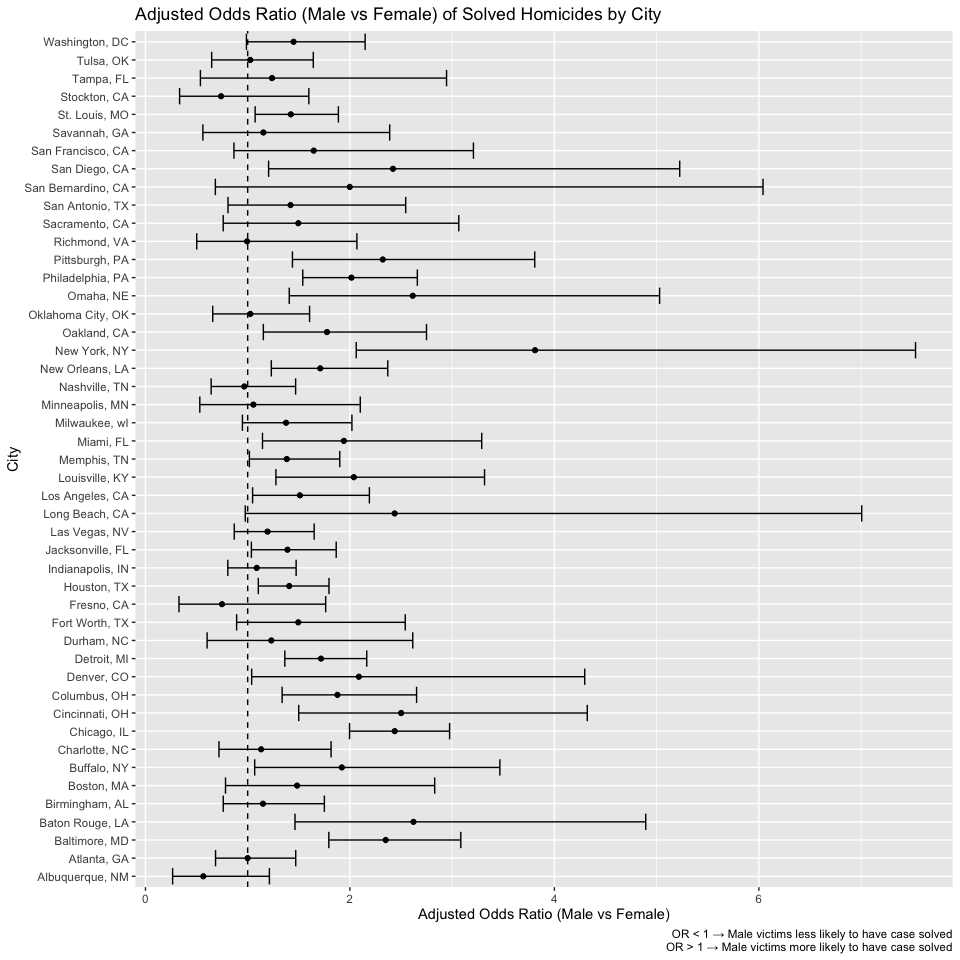
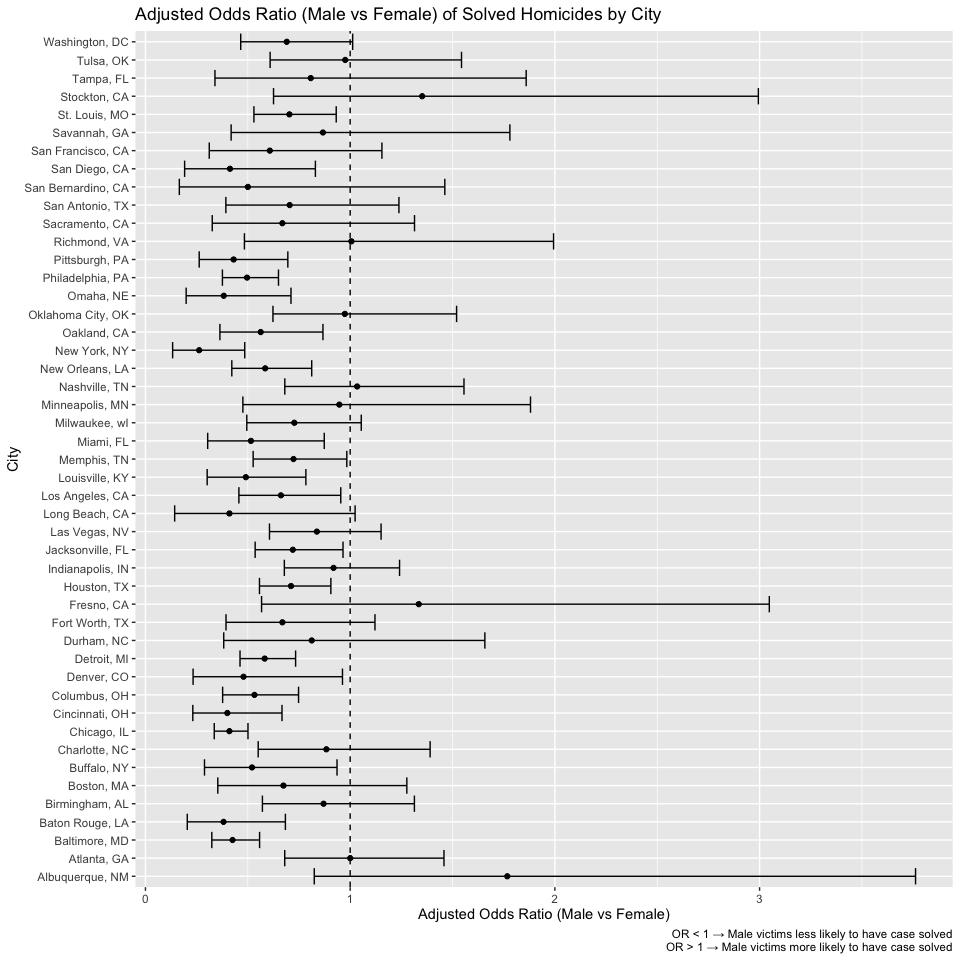
final changes. Completed homework.

diff --git a/hw6_ss7636.md b/hw6_ss7636.md
@@ -39,7 +39,7 @@
       mutate(
         unsolved = disposition %in% c("Closed without arrest", "Open/No arrest")
       ) |> 
-      mutate(unsolved_bin = ifelse(unsolved == TRUE, 1, 0)) |> 
+      mutate(solved_bin = ifelse(unsolved == TRUE, 0, 1)) |> 
       filter(!(city_state %in% c("Dallas, TX",
                                  "Phoenix, AZ",
                                  "Kansas City, MO",
@@ -68,14 +68,14 @@
     ##  9 Alb-0000…      20100423 KING        TEVION       Black               15 Male       Albu… NM     35.1 -107.
     ## 10 Alb-0000…      20100423 BOYKIN      CEDRIC       Black               25 Male       Albu… NM     35.1 -107.
     ## # ℹ 39,683 more rows
-    ## # ℹ 4 more variables: disposition <chr>, city_state <chr>, unsolved <lgl>, unsolved_bin <dbl>
+    ## # ℹ 4 more variables: disposition <chr>, city_state <chr>, unsolved <lgl>, solved_bin <dbl>
 
     baltimore = homicide_city_state |> 
       filter(city_state == "Baltimore, MD")
 
 
     fit = glm(
-      unsolved_bin ~ victim_age + victim_sex + victim_race, data = baltimore,  family = binomial(link = "logit")
+      solved_bin ~ victim_age + victim_sex + victim_race, data = baltimore,  family = binomial(link = "logit")
     )
     tidy_fit = broom::tidy(fit, conf.int = TRUE, exponentiate = TRUE)
 
@@ -84,10 +84,10 @@
     ## # A tibble: 4 × 7
     ##   term             estimate std.error statistic  p.value conf.low conf.high
     ##   <chr>               <dbl>     <dbl>     <dbl>    <dbl>    <dbl>     <dbl>
-    ## 1 (Intercept)         0.733   0.171       -1.81 7.04e- 2    0.523     1.02 
-    ## 2 victim_age          1.01    0.00332      2.02 4.30e- 2    1.00      1.01 
-    ## 3 victim_sexMale      2.35    0.138        6.18 6.26e-10    1.79      3.08 
-    ## 4 victim_raceWhite    0.431   0.175       -4.82 1.45e- 6    0.305     0.606
+    ## 1 (Intercept)         1.36    0.171        1.81 7.04e- 2    0.976     1.91 
+    ## 2 victim_age          0.993   0.00332     -2.02 4.30e- 2    0.987     1.000
+    ## 3 victim_sexMale      0.426   0.138       -6.18 6.26e-10    0.324     0.558
+    ## 4 victim_raceWhite    2.32    0.175        4.82 1.45e- 6    1.65      3.28
 
     tidy_fit |> 
       filter(term == "victim_sexMale")
@@ -95,14 +95,18 @@
     ## # A tibble: 1 × 7
     ##   term           estimate std.error statistic  p.value conf.low conf.high
     ##   <chr>             <dbl>     <dbl>     <dbl>    <dbl>    <dbl>     <dbl>
-    ## 1 victim_sexMale     2.35     0.138      6.18 6.26e-10     1.79      3.08
+    ## 1 victim_sexMale    0.426     0.138     -6.18 6.26e-10    0.324     0.558
+
+The adjusted odds ratio for a homicide being solved comparing male to
+female victims, holding age and race constant, was OR = 0.426. The
+confidence interval is (0.324, 0.558).
 
     city_models = homicide_city_state |> 
       group_by(city_state) |> 
       nest() |> 
       mutate(
         fit = map(data, ~ glm(
-          unsolved_bin ~ victim_age + victim_sex + victim_race,
+          solved_bin ~ victim_age + victim_sex + victim_race,
           data = .x,
           family = binomial(link = "logit")
         )),
@@ -126,16 +130,16 @@
     ## # Groups:   city_state [47]
     ##    city_state      term           estimate std.error statistic   p.value conf.low conf.high
     ##    <chr>           <chr>             <dbl>     <dbl>     <dbl>     <dbl>    <dbl>     <dbl>
-    ##  1 Albuquerque, NM victim_sexMale    0.566     0.385 -1.48     1.39 e- 1    0.266      1.21
-    ##  2 Atlanta, GA     victim_sexMale    1.000     0.194 -0.000397 1.000e+ 0    0.686      1.47
-    ##  3 Baltimore, MD   victim_sexMale    2.35      0.138  6.18     6.26 e-10    1.79       3.08
-    ##  4 Baton Rouge, LA victim_sexMale    2.62      0.306  3.15     1.65 e- 3    1.46       4.89
-    ##  5 Birmingham, AL  victim_sexMale    1.15      0.212  0.657    5.11 e- 1    0.761      1.75
-    ##  6 Boston, MA      victim_sexMale    1.48      0.326  1.21     2.26 e- 1    0.783      2.83
-    ##  7 Buffalo, NY     victim_sexMale    1.92      0.299  2.18     2.90 e- 2    1.07       3.47
-    ##  8 Charlotte, NC   victim_sexMale    1.13      0.236  0.524    6.00 e- 1    0.719      1.82
-    ##  9 Chicago, IL     victim_sexMale    2.44      0.102  8.77     1.86 e-18    2.00       2.98
-    ## 10 Cincinnati, OH  victim_sexMale    2.50      0.269  3.41     6.49 e- 4    1.50       4.32
+    ##  1 Albuquerque, NM victim_sexMale    1.77      0.385  1.48     1.39 e- 1    0.825     3.76 
+    ##  2 Atlanta, GA     victim_sexMale    1.00      0.194  0.000397 1.000e+ 0    0.680     1.46 
+    ##  3 Baltimore, MD   victim_sexMale    0.426     0.138 -6.18     6.26 e-10    0.324     0.558
+    ##  4 Baton Rouge, LA victim_sexMale    0.381     0.306 -3.15     1.65 e- 3    0.204     0.684
+    ##  5 Birmingham, AL  victim_sexMale    0.870     0.212 -0.657    5.11 e- 1    0.571     1.31 
+    ##  6 Boston, MA      victim_sexMale    0.674     0.326 -1.21     2.26 e- 1    0.353     1.28 
+    ##  7 Buffalo, NY     victim_sexMale    0.521     0.299 -2.18     2.90 e- 2    0.288     0.936
+    ##  8 Charlotte, NC   victim_sexMale    0.884     0.236 -0.524    6.00 e- 1    0.551     1.39 
+    ##  9 Chicago, IL     victim_sexMale    0.410     0.102 -8.77     1.86 e-18    0.336     0.501
+    ## 10 Cincinnati, OH  victim_sexMale    0.400     0.269 -3.41     6.49 e- 4    0.231     0.667
     ## # ℹ 37 more rows
 
     city_models_plot = ggplot(city_models |> 
@@ -158,11 +162,11 @@
 
 The plot shows the odds that a homicide is solved for male vs female
 victims, holding age and race constant for each city and state. Many
-cities and states have the OR &gt; 1, meaning male victems are more
-likely to have their case solved. Notable cities would be Baton Rouge,
+cities and states have the OR &lt; 1, meaning male victims are less
+likely to have their cases solved. Notable cities would be Baton Rouge,
 LA, Cincinnati, OH, Long Beach, CA, New York, NY, and San Diego, CA. A
 few cities have OR = 1, such as Atlanta, GA and Nashville, TN. Very few
-cities have OR &lt; 1. Some include Alburquerque, NM, Fresno, CA, and
+cities have OR &gt; 1. Some include Alburquerque, NM, Fresno, CA, and
 Stockton, CA.
 
 ## Question 2
@@ -246,7 +250,7 @@ Stockton, CA.
            y = "Frequency") +
       theme_minimal()
 
-![](hw6_ss7636_files/figure-markdown_strict/unnamed-chunk-9-1.png)
+![](hw6_ss7636_files/figure-markdown_strict/unnamed-chunk-18-1.png)
 
     ggplot(boot_results, aes(x = beta_prod)) +
       geom_histogram(bins = 40, color = "white") +
@@ -255,7 +259,7 @@ Stockton, CA.
            y = "Frequency") +
       theme_minimal()
 
-![](hw6_ss7636_files/figure-markdown_strict/unnamed-chunk-9-2.png) The
+![](hw6_ss7636_files/figure-markdown_strict/unnamed-chunk-18-2.png) The
 bootstrap distribution of R² roughly symmetric, unimodal and is centered
 around 0.94. This suggests that the model explains a consistent portion
 of the variation in tmax. However, the bootstrap distribution of β₁/β₂
@@ -399,7 +403,7 @@ trajectories and length–weight mapping.
 
     ## `geom_smooth()` using formula = 'y ~ x'
 
-![](hw6_ss7636_files/figure-markdown_strict/unnamed-chunk-14-1.png)
+![](hw6_ss7636_files/figure-markdown_strict/unnamed-chunk-23-1.png)
 
     modA_formula = bwt ~ blength + gaweeks
     modB_formula = bwt ~ bhead * blength * babysex
@@ -467,7 +471,7 @@ trajectories and length–weight mapping.
         y = "RMSE"
       )
 
-![](hw6_ss7636_files/figure-markdown_strict/unnamed-chunk-17-1.png)
+![](hw6_ss7636_files/figure-markdown_strict/unnamed-chunk-26-1.png)
 
 I compared three models predicting birthweight using cross-validation
 and evaluated their prediction errors using RMSE. The model including
